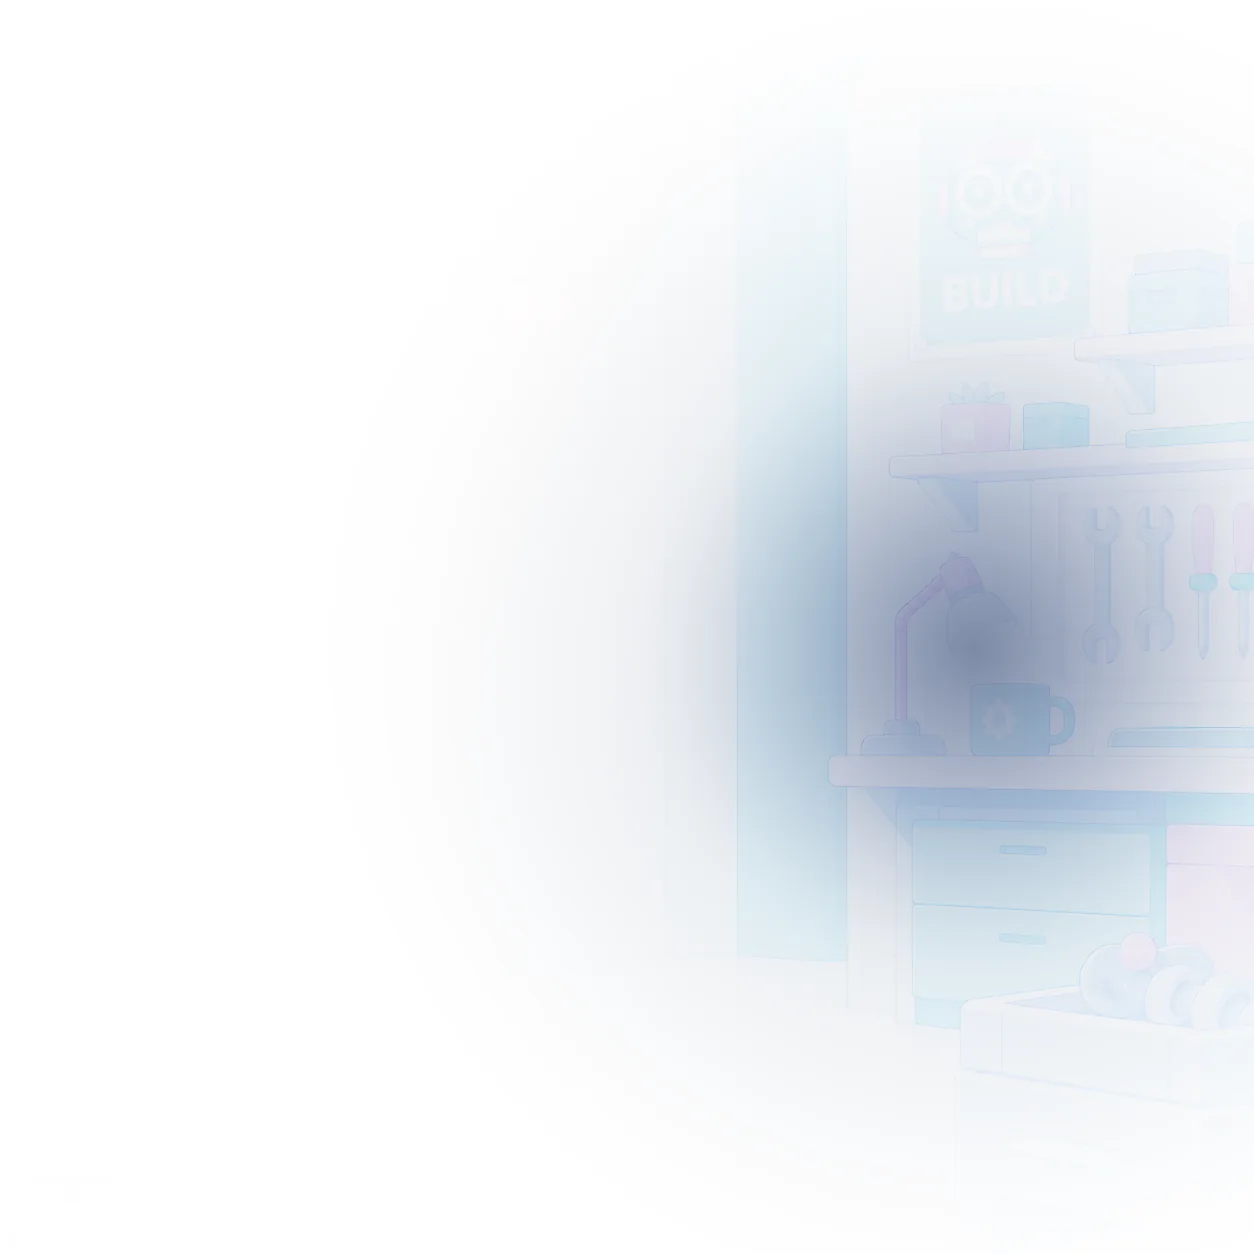
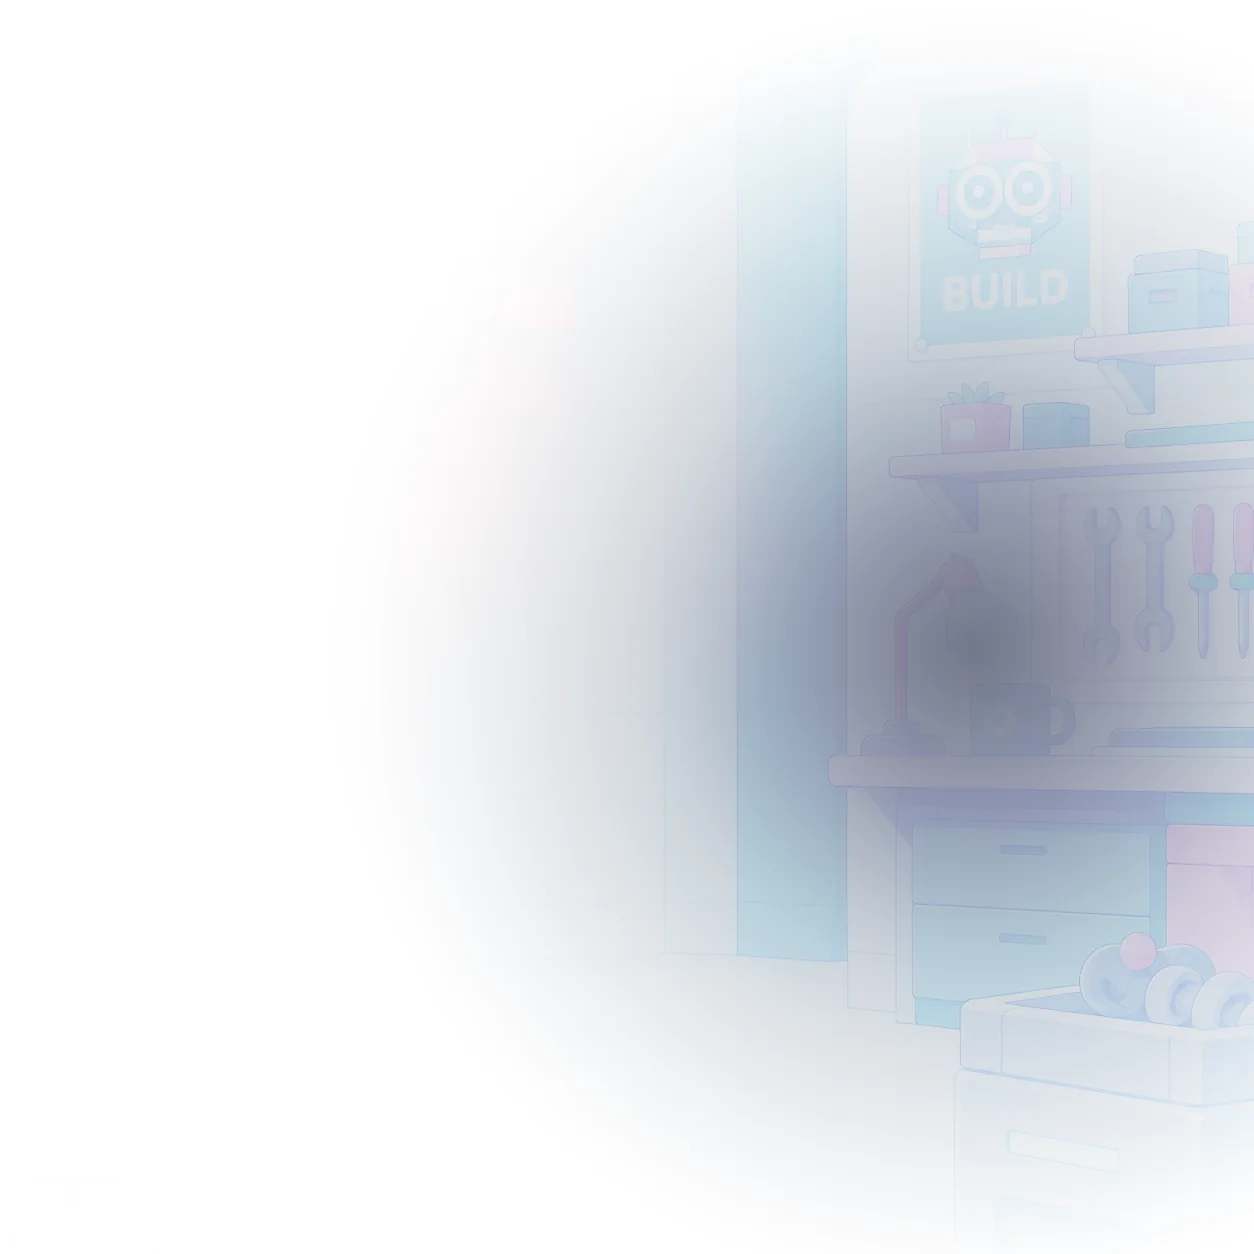
白天關燈也看得出來了
白天的檯燈原本只扣掉「直射」那一份,量出來檯燈那一區只暗 17.9 階(夜裡是 72.2)——
戳下去等於沒反應。物理上白天的檯燈確實不明顯,但這是互動,戳了要有回應比絕對寫實重要。

白天改成走和夜晚同一套三份拆解(直射 / 打到牆面再散回來的散射 / 暖色偏移),
只是份量小得多;黃昏那一組也順手補上(原本 scatter 0.10 太小,關燈比白天還不明顯)。

現在的落差是單調的,越暗的時段差越多 —— 瀏覽器上實測:
    白天 41 階 → 黃昏 50 → 夜晚 72

白天那一格仍然守著不變式:開燈 = 原圖本身逐像素相同(所以白天沒有 m/s 兩張分級圖,
零額外請求),關燈才是「原圖減掉檯燈那三份」。三個時段的關燈層還原誤差都是 0.00。

驗收:7 個頁面/視窗組合 overflowX = 0、零錯誤、零失敗請求;RMSE 2.83。

Changed region(s): [[0.4665, 0.1244, 1.0, 0.8708]]

diff --git a/tools/gen-allen-room-assets.py b/tools/gen-allen-room-assets.py
@@ -114,6 +114,10 @@ CLOUD_SOFT = 6          # 雲的柔邊最多往外收這麼多 px
 # 檯燈的光是個以燈頭為中心的衰減場,關燈就是把這份暖光減掉。
 # 這是打光運算不是重畫,像素全部來自原圖。
 LAMP = {'x': 975, 'y': 648, 'r': 340, 'amount': 0.30, 'warm': (1.0, 0.80, 0.52)}
+# 白天關燈也要看得出來。第一版白天只扣掉「直射」那一份,量出來檯燈那一區只暗 17.9 階
+# (夜裡是 72.2),等於戳了沒反應。物理上白天的檯燈確實不明顯,但這是互動 —— 戳了
+# 要有回應比絕對寫實重要。所以白天也用和夜晚同一套三份拆解,只是份量小得多。
+DAY_LAMP = {'lamp': 1.0, 'scatter': 0.19, 'warm': (16, 8, 0), 'warm_r': 1.9}
 # 窗光灑進室內的範圍(圓窗中心往房間裡放射)。夜裡是城市的冷光,黃昏是夕陽的金色。
 WIN = {'x': 96, 'y': 372, 'rx': 760, 'ry': 700}
 
@@ -135,8 +139,8 @@ TIMES = {
         'neon_blue': (255, 206, 120), 'neon_blue_amt': 0.42,
         'neon_red': (255, 150, 84), 'neon_red_amt': 0.42, 'bloom': 0.10,
         'tint': (0.86, 0.805, 0.795), 'amb': 0.70,
-        'spill': (104, 46, -6), 'lamp': 1.18,
-        'scatter': 0.10, 'warm': (10, 5, 0), 'warm_r': 1.9,
+        'spill': (104, 46, -6), 'lamp': 1.24,
+        'scatter': 0.30, 'warm': (26, 13, 1), 'warm_r': 1.9,
     },
     'night': {
         'sky': [(40, (11, 18, 46)), (240, (14, 24, 58)), (420, (20, 32, 72)),
@@ -553,7 +557,13 @@ def time_target(src, G, key):
     L = lamp_light(src, G)
     A = src - L                                            # 白天的環境光
     if key == 'day':
-        return src, np.clip(A, 0, 255)
+        # 白天 + 開燈就是原圖本身 —— 這條不變式不能破(白天的分級層完全不存在,
+        # 所以「開燈」那一格必須逐像素等於原圖)。關燈就是把檯燈那三份減掉。
+        glow = np.clip(1.0 - G['ld'] / DAY_LAMP['warm_r'], 0, 1) ** 1.4
+        lit = (L * DAY_LAMP['lamp']
+               + A * (glow * DAY_LAMP['scatter'])[..., None]
+               + glow[..., None] * np.array(DAY_LAMP['warm'])[None, None, :])
+        return src, np.clip(src - (1 - G['w_out'][..., None]) * lit, 0, 255)
     cfg = TIMES[key]
     r, g, b = src[:, :, 0], src[:, :, 1], src[:, :, 2]
 

diff --git a/README.md b/README.md
@@ -65,9 +65,11 @@
   東西會變成黑洞、原稿的明暗關係被壓平,窗外就會粗糙沒有形體。檯燈與螢幕是自己會發光
   的東西,所以它們那一層疊在分級**之上** ——
   夜裡它們不該跟著環境一起暗,反而該變成主角。關燈也是分級圖(每個時段一張),
-  所以夜裡關檯燈的落差比白天大得多,而且元件與 Allen 會一起暗下來。
+  所以夜裡關檯燈的落差比白天大得多,而且元件與 Allen 會一起暗下來:
+  量出來是 白天暗 41 階 → 黃昏 50 → 夜晚 72。白天也算了檯燈的散射與暖色偏移 ——
+  只扣直射的話白天只暗 18 階,戳下去等於沒反應。
 
-  重量:白天 + 開燈是原圖本身,**零額外請求**;黃昏 44KB、夜晚 48KB、三張關燈圖共 42KB,
+  重量:白天 + 開燈是原圖本身,**零額外請求**;黃昏 47KB、夜晚 48KB、三張關燈圖共 57KB,
   全部用到才載。舊的 `stage-off.webp`(91KB)已經被關燈分級圖取代。
   reduced-motion 的靜態卡也吃同一份天色(不能動不等於永遠是白天),但它沒有切換。
 
